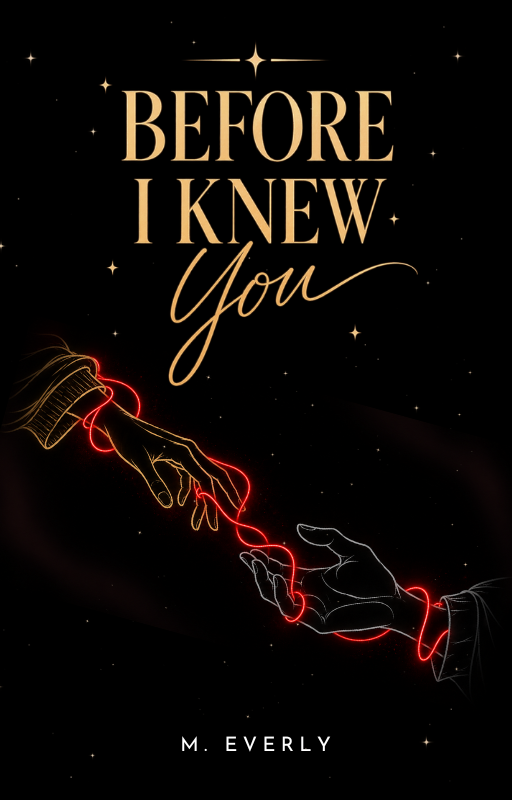
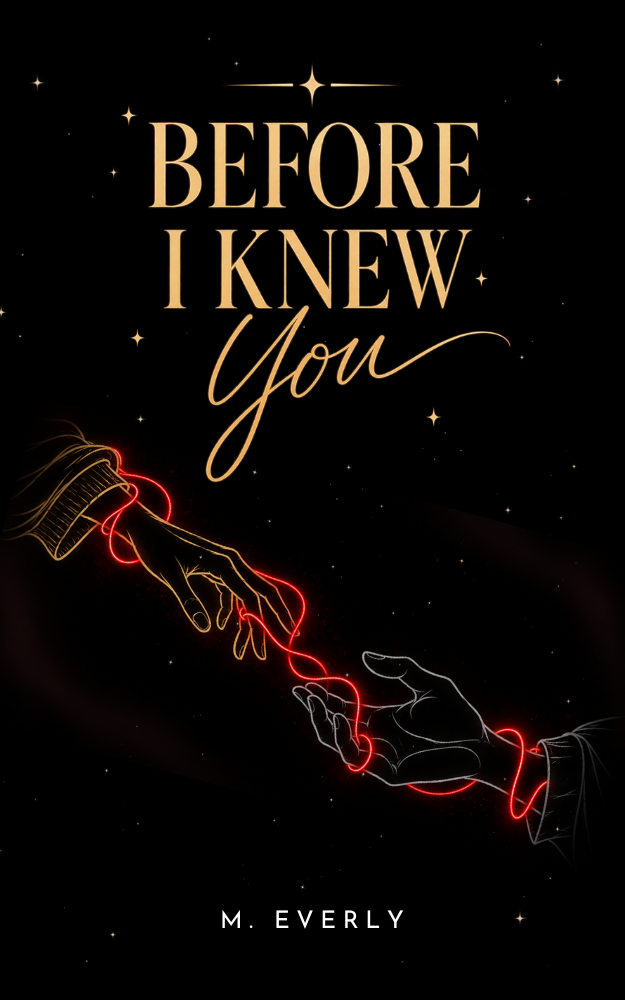
Couverture en 625 × 1000 : nette sur écran retina
Nouvel export Canva à la place du 512 × 800. La mise en scène plafonnant
à 300 px de large, il fallait 600 px pour couvrir un écran 2× — c'est
désormais le cas, les empattements du titre et le script « You » sont
propres au lieu d'être interpolés.

Le ratio passe de 0,64 à 0,625, les constantes suivent pour éviter tout
décalage de mise en page. L'image de partage est régénérée au passage.

Le seuil d'alerte du script était arbitraire (700 px) ; il exprime
maintenant les vrais paliers : 600 px pour le 2×, 900 px pour le 3×.

diff --git a/lib/site.ts b/lib/site.ts
@@ -22,13 +22,14 @@ export const INSTAGRAM_URL = "https://www.instagram.com/meverlybooks/";
 /**
  * Couverture du roman, régénérée par scripts/build-assets.mjs.
  *
- * La source ne fait que 512 × 800 : la mise en scène est donc bornée à 300 px
- * de large. Avec un export plus grand, on pourra remonter cette borne.
+ * La source fait 625 × 1000 : la mise en scène est bornée à 300 px de large,
+ * ce qui couvre exactement un écran retina. Avec un export plus grand, on
+ * pourra remonter cette borne.
  */
 export const COVER_SRC = "/cover.png";
 
-export const COVER_WIDTH = 512;
-export const COVER_HEIGHT = 800;
+export const COVER_WIDTH = 625;
+export const COVER_HEIGHT = 1000;
 
 /** Illustration détourée de la couverture : les deux mains et le fil. */
 export const HERO_ILLUSTRATION_SRC = "/hero-illustration.png";
